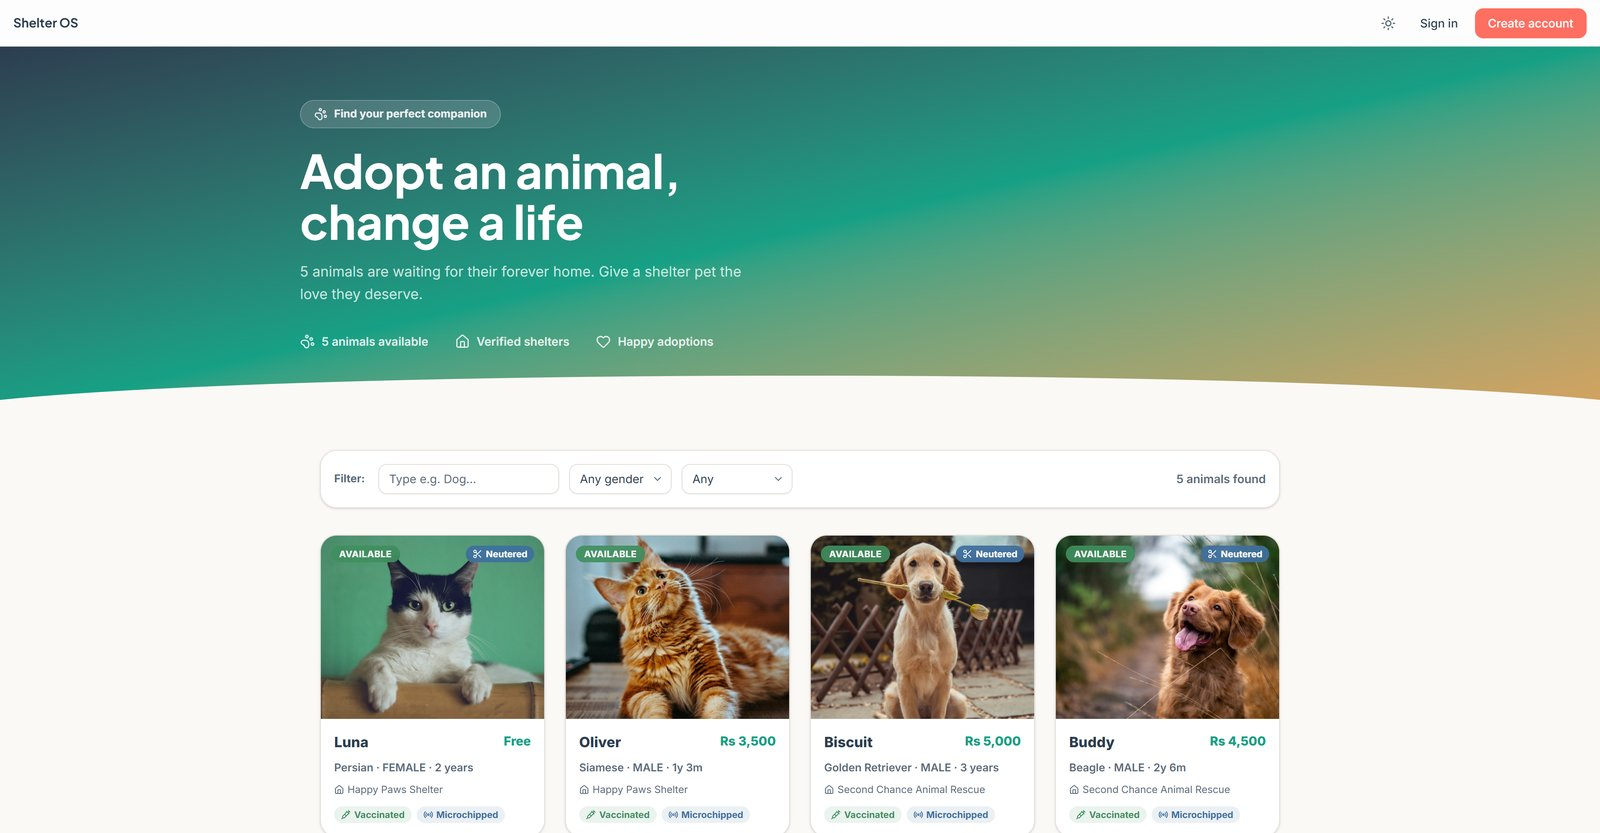
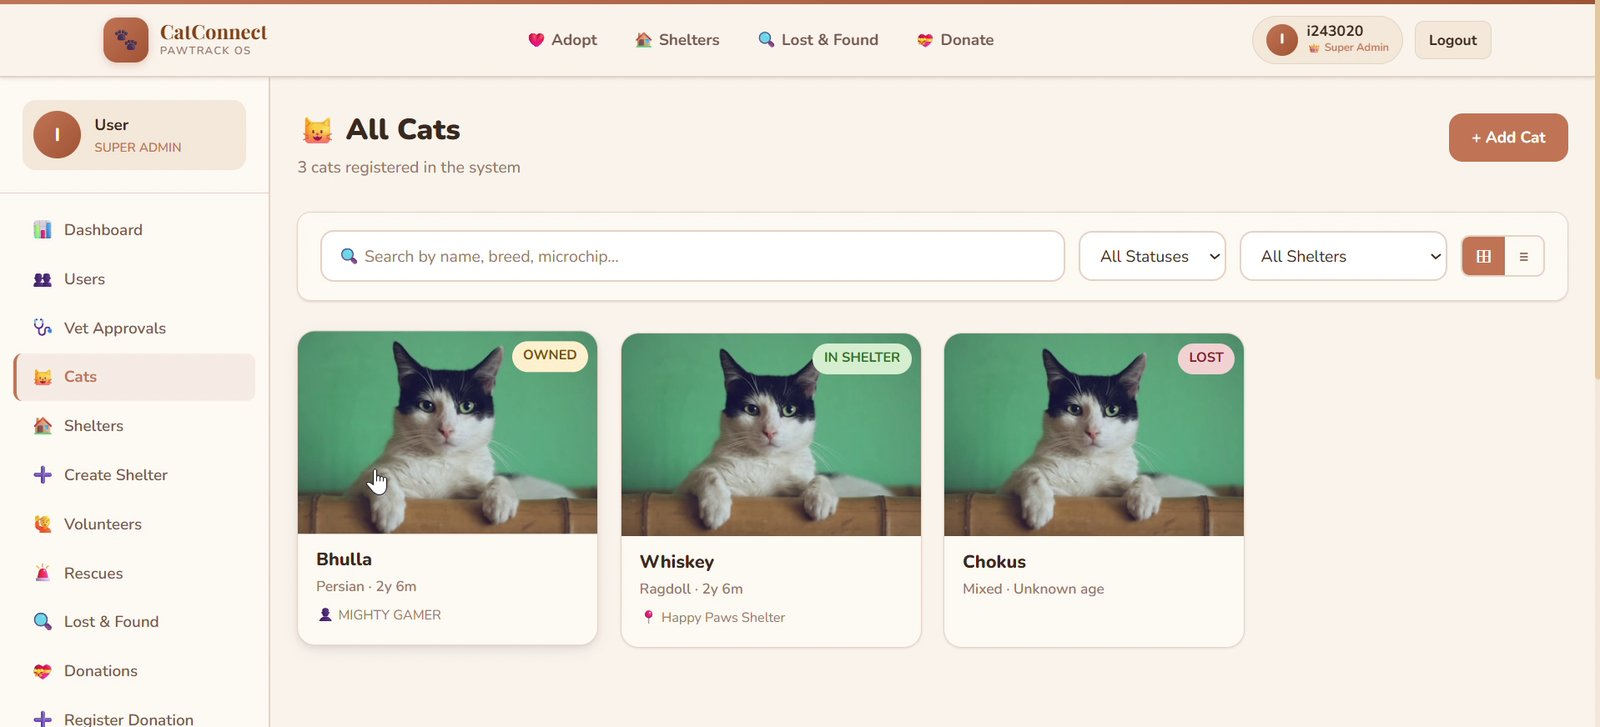
fix(projects): swap Cat Connect / Shelter OS names back to their real ones, fix a tech error
The Django-based project's own on-screen branding is "CatConnect" as
its primary logo text ("PawTrack OS" is only the small sub-tag beneath
it), so it reclaims the name and slug "Cat Connect" (and its cover
image, now a real frame from its own demo video). The shelter-os-repo
project takes its own actual name instead, "Shelter OS", with its own
slug and cover image (the public /adoption page).

Also audited the Shelter OS content against the repo directly, since
the previous pass got one thing wrong: I'd listed "TypeScript" in its
tech stack without confirming it. The repo's default branch is
`redesign/shelter-os-ui`, not `main` (which explains why an earlier
check saw no commit history there); pulling the real tree and
frontend/package.json from that branch shows no `typescript` package,
no tsconfig.json, and no .ts/.tsx files anywhere in it (245 files, all
.js/.jsx) — confirmed by GitHub's own language detection too. Swapped
"TypeScript" for "GSAP", which the repo's dependencies do confirm
(gsap, @gsap/react, animejs) and which the copy already highlights.

Cat Connect's own content (Django/PostgreSQL/Redis/Celery, 18 apps) is
unchanged and still unverified against a repo: none has been given for
it across this whole thread, unlike Sabaq AI and Shelter OS.

Verified: typecheck, build, all referenced assets resolve, 0 WCAG
contrast failures across every route (646 text runs measured).

diff --git a/src/data/projects.ts b/src/data/projects.ts
@@ -69,8 +69,8 @@ export const projects: Project[] = [
     imageAlt: "Sabaq AI's Explore screen: a 3D orbit of subject textbooks circling a globe",
   },
   {
-    slug: 'cat-connect',
-    title: 'Cat Connect',
+    slug: 'shelter-os',
+    title: 'Shelter OS',
     category: 'Web Application',
     status: 'published',
     year: '2026',
@@ -79,7 +79,7 @@ export const projects: Project[] = [
     problem:
       'Shelter software usually shows every user the same screen with features hidden behind permission checks, so a volunteer wades through admin tools they will never touch, and nobody overseeing several shelters at once gets a view built for that job.',
     solution:
-      "Cat Connect builds its navigation and dashboards around each of its four roles from the ground up: a Super Admin gets a platform-wide console for onboarding shelters and admins, a Shelter Admin runs one shelter's operations, and Employees and Customers each get an interface scoped to what their role actually does.",
+      "Shelter OS builds its navigation and dashboards around each of its four roles from the ground up: a Super Admin gets a platform-wide console for onboarding shelters and admins, a Shelter Admin runs one shelter's operations, and Employees and Customers each get an interface scoped to what their role actually does.",
     features: [
       'Animal intake, registry, and medical history, with adoption and foster placements tracked end to end',
       'Rescue reports and a public lost & found board',
@@ -88,15 +88,15 @@ export const projects: Project[] = [
       'Threaded messaging, notifications, and an interactive shelter map',
       'A Super Admin console for onboarding shelters, granting admin access, and tracking platform-wide usage',
     ],
-    tech: ['Next.js', 'React', 'TypeScript', 'Tailwind CSS', 'Radix UI', 'TanStack Table', 'Recharts', 'Leaflet'],
+    tech: ['Next.js', 'React', 'Tailwind CSS', 'Radix UI', 'GSAP', 'TanStack Table', 'Recharts', 'Leaflet'],
     highlights: [
       'Four roles, one codebase: navigation and dashboards are built around Super Admin, Shelter Admin, Employee, and Customer from the ground up, not one view with features toggled on and off',
       'The adoption marketplace and lost & found board are usable without an account',
       'A fully explorable demo: runs on mock data with no backend or real authentication required, so every screen is one click away',
     ],
     demoUrl: 'https://shelter-os-seven.vercel.app',
-    image: '/projects/cat-connect-cover.jpg',
-    imageAlt: 'The Cat Connect adoption marketplace: a hero banner over cards for adoptable cats and dogs',
+    image: '/projects/shelter-os-cover.jpg',
+    imageAlt: 'The Shelter OS adoption marketplace: a hero banner over cards for adoptable cats and dogs',
   },
   {
     slug: 'studify',
@@ -129,8 +129,8 @@ export const projects: Project[] = [
     videoUrl: 'https://drive.google.com/file/d/1n-E1djSJhWoz2xooLSq8vdMTPi1vxmqy/view?usp=drive_link',
   },
   {
-    slug: 'pawtrack',
-    title: 'PawTrack OS: Cat Welfare Platform',
+    slug: 'cat-connect',
+    title: 'Cat Connect',
     category: 'Web Application',
     status: 'published',
     year: '2026',
@@ -139,7 +139,7 @@ export const projects: Project[] = [
     problem:
       'Shelters and rescues track a cat\'s entire lifecycle (intake, medical care, fostering, adoption) across spreadsheets and paper logs, making it hard for shelter staff, vets, and volunteers to coordinate.',
     solution:
-      'PawTrack OS gives every role, from shelter admins to vets to volunteers, one role-based system covering the full lifecycle of a cat\'s care, backed by scheduled background jobs for reminders and matching.',
+      'Cat Connect gives every role, from shelter admins to vets to volunteers, one role-based system covering the full lifecycle of a cat\'s care, backed by scheduled background jobs for reminders and matching.',
     features: [
       'Cat registry with intake and discharge tracking',
       'Medical records and vet appointment scheduling',
@@ -154,8 +154,8 @@ export const projects: Project[] = [
       'Scheduled background jobs via Celery for reminders and the lost & found matching engine',
       'Full OpenAPI/Swagger documentation generated from the API',
     ],
-    image: '/projects/pawtrack-cover.jpg',
-    imageAlt: 'The PawTrack OS cat registry: real cat profiles with owned, in-shelter, and lost statuses',
+    image: '/projects/cat-connect-cover.jpg',
+    imageAlt: 'The Cat Connect cat registry: real cat profiles with owned, in-shelter, and lost statuses',
     videoUrl: 'https://drive.google.com/file/d/1DOXkn57jIr1e7NH8YxkYOpVUYGSf8xFq/view?usp=drive_link',
   },
   {
